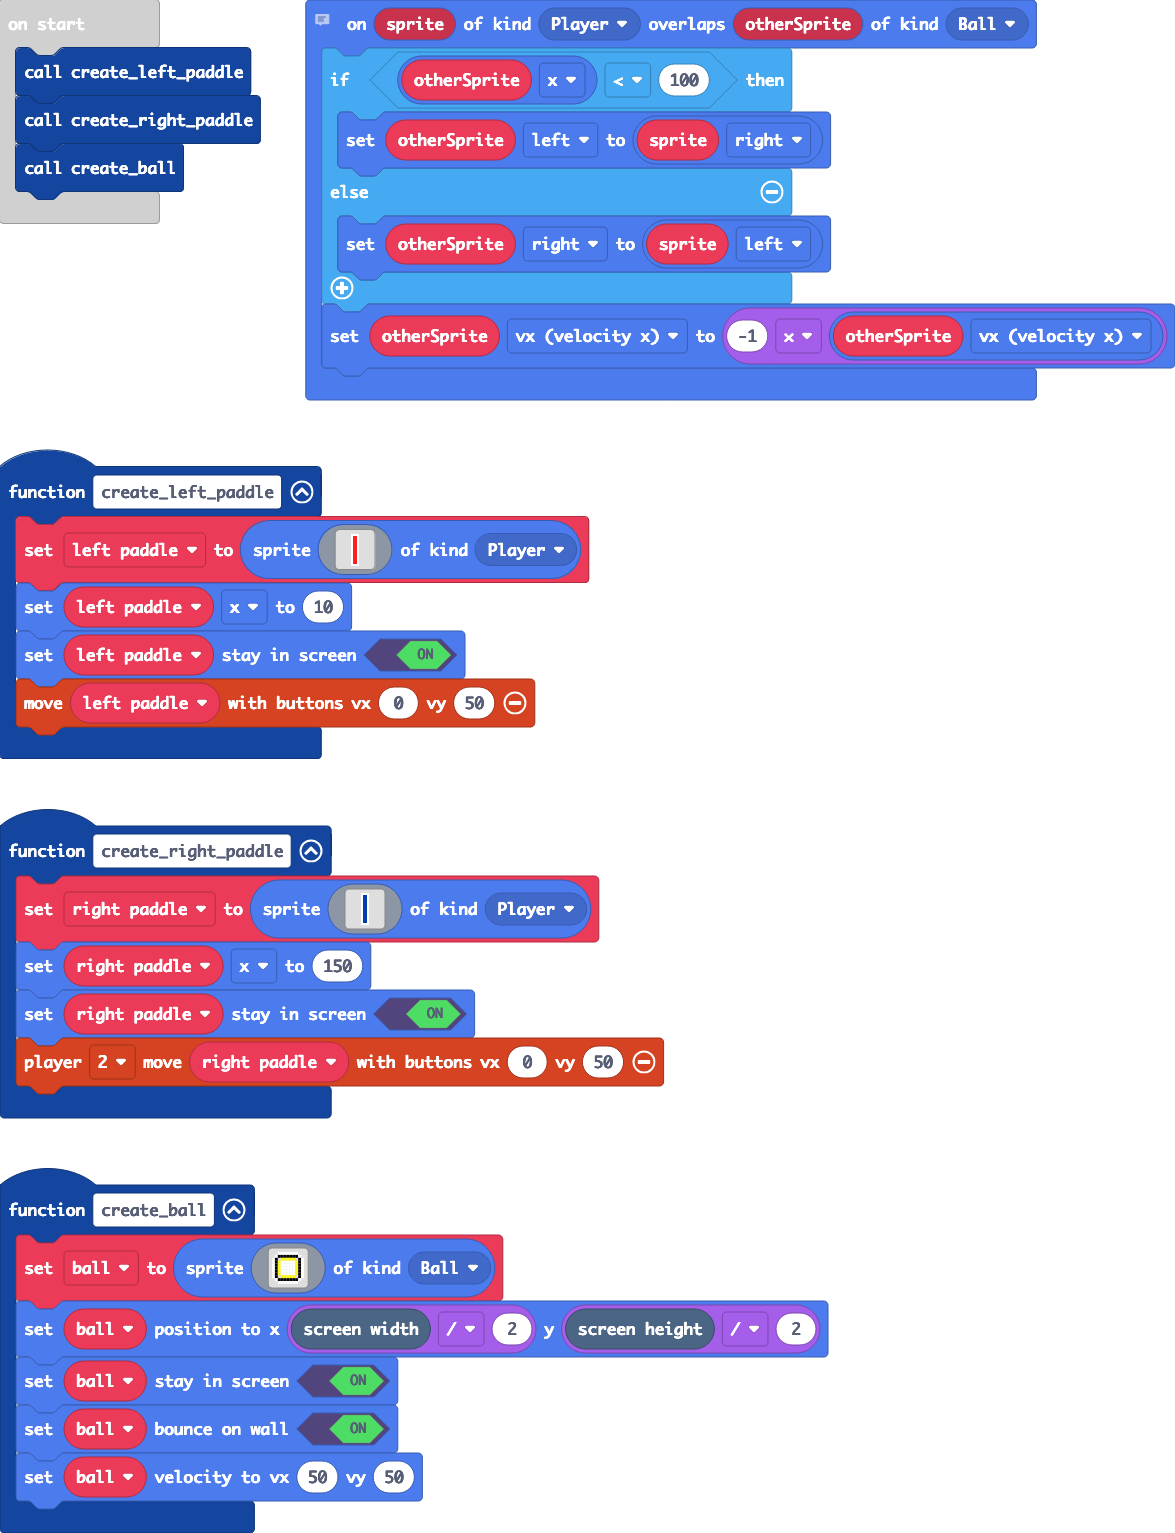
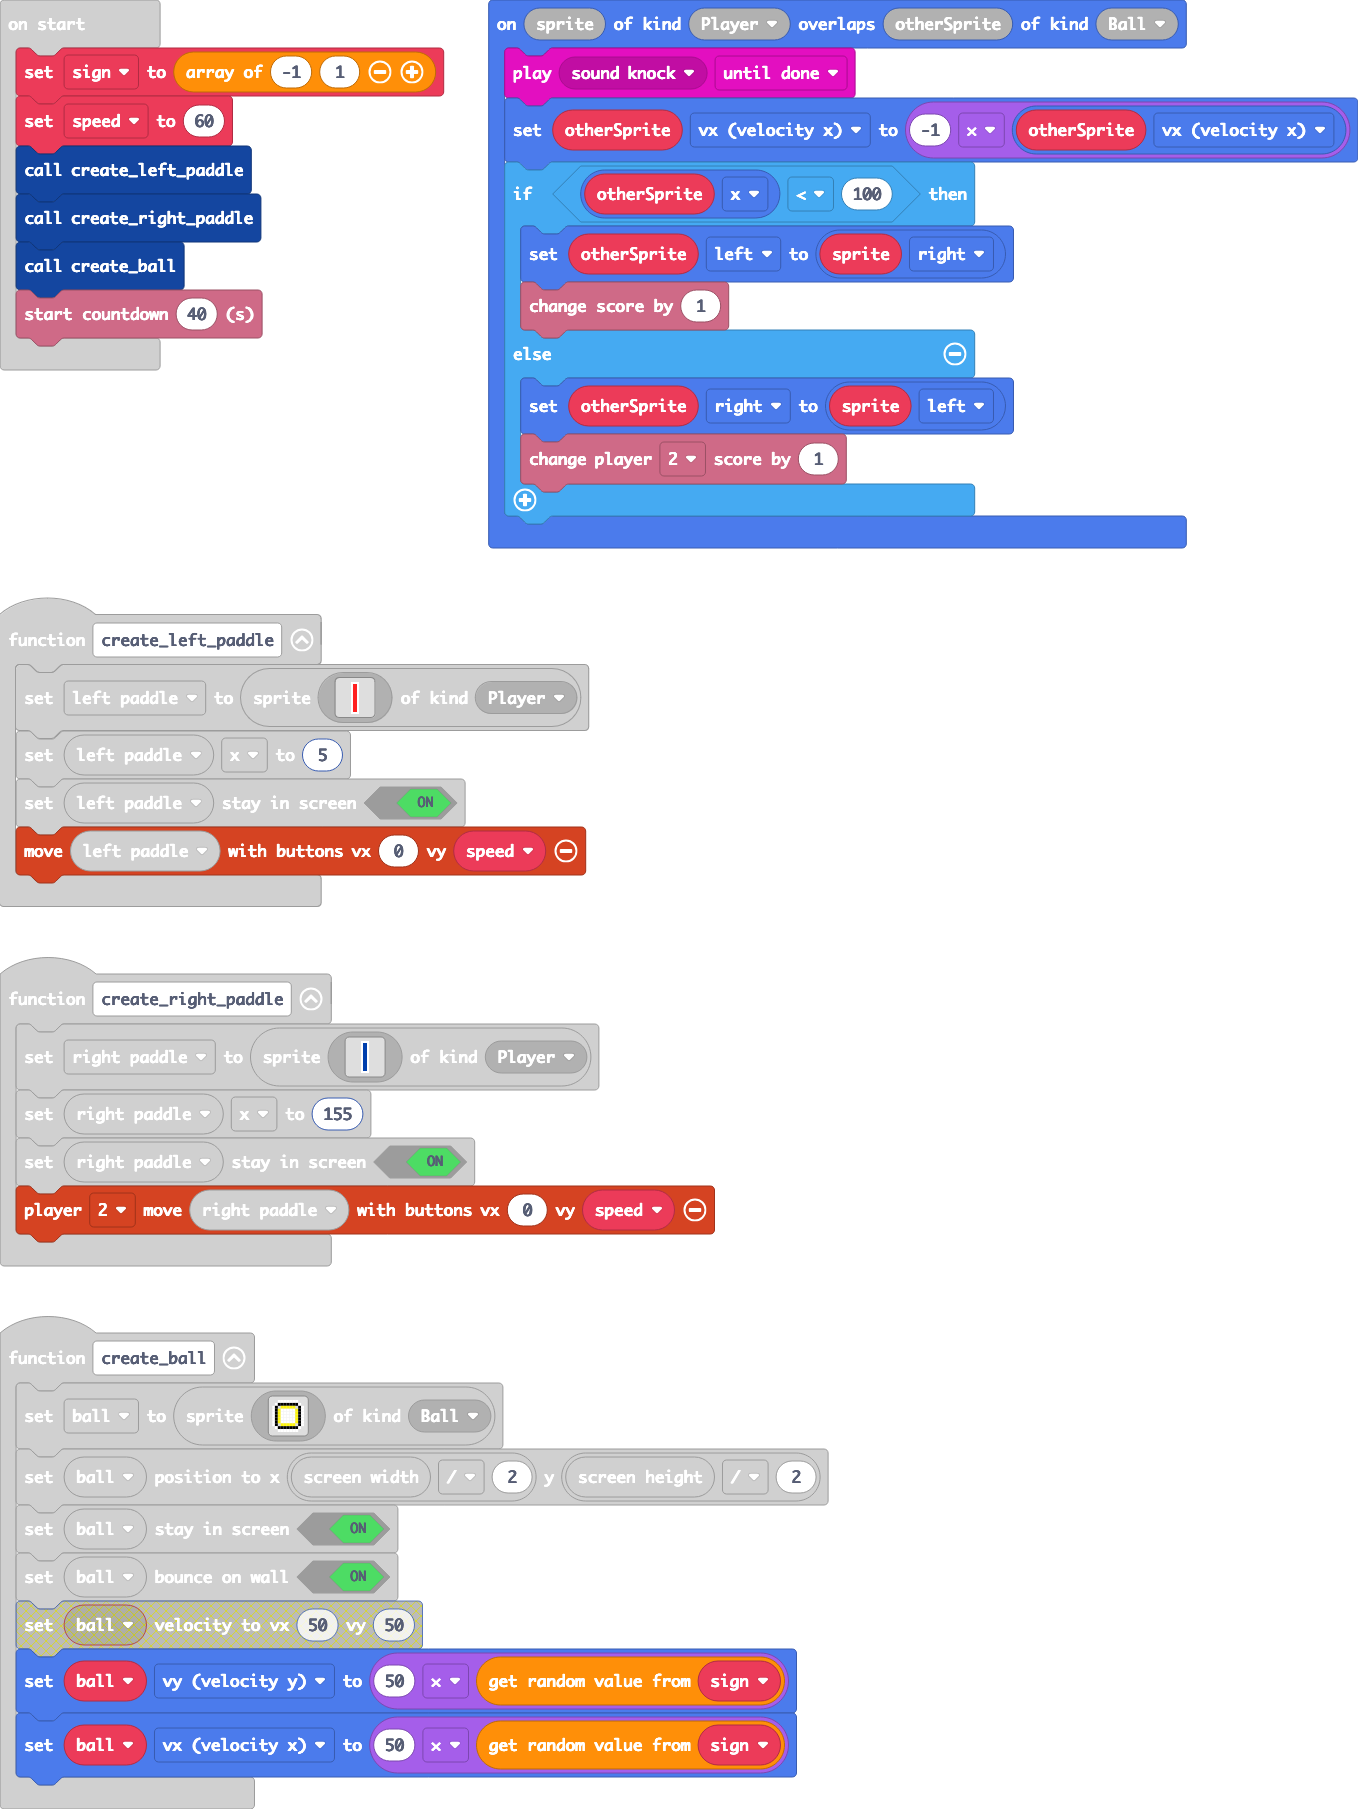
random direction, scoring anc countdown

diff --git a/main.ts b/main.ts
@@ -1,37 +1,45 @@
 namespace SpriteKind {
     export const Ball = SpriteKind.create()
 }
-// reverse horizontal speed
 sprites.onOverlap(SpriteKind.Player, SpriteKind.Ball, function (sprite, otherSprite) {
+    music.play(music.melodyPlayable(music.knock), music.PlaybackMode.UntilDone)
+    otherSprite.vx = -1 * otherSprite.vx
     if (otherSprite.x < 100) {
         otherSprite.left = sprite.right
+        info.changeScoreBy(1)
     } else {
         otherSprite.right = sprite.left
+        info.player2.changeScoreBy(1)
     }
-    otherSprite.vx = -1 * otherSprite.vx
 })
 function create_right_paddle () {
     right_paddle = sprites.create(assets.image`right paddle`, SpriteKind.Player)
-    right_paddle.x = 150
+    right_paddle.x = 155
     right_paddle.setStayInScreen(true)
-    controller.player2.moveSprite(right_paddle, 0, 50)
+    controller.player2.moveSprite(right_paddle, 0, speed)
 }
 function create_left_paddle () {
     left_paddle = sprites.create(assets.image`left paddle`, SpriteKind.Player)
-    left_paddle.x = 10
+    left_paddle.x = 5
     left_paddle.setStayInScreen(true)
-    controller.moveSprite(left_paddle, 0, 50)
+    controller.moveSprite(left_paddle, 0, speed)
 }
 function create_ball () {
     ball = sprites.create(assets.image`myImage`, SpriteKind.Ball)
     ball.setPosition(scene.screenWidth() / 2, scene.screenHeight() / 2)
     ball.setStayInScreen(true)
     ball.setBounceOnWall(true)
-    ball.setVelocity(50, 50)
+    ball.vy = 50 * sign._pickRandom()
+    ball.vx = 50 * sign._pickRandom()
 }
 let ball: Sprite = null
 let left_paddle: Sprite = null
 let right_paddle: Sprite = null
+let speed = 0
+let sign: number[] = []
+sign = [-1, 1]
+speed = 60
 create_left_paddle()
 create_right_paddle()
 create_ball()
+info.startCountdown(40)
